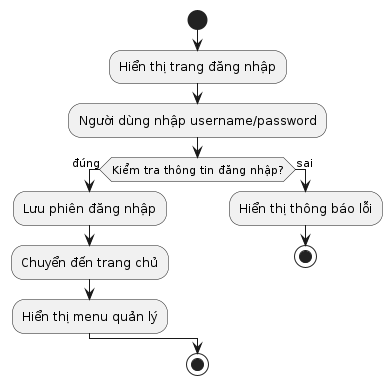
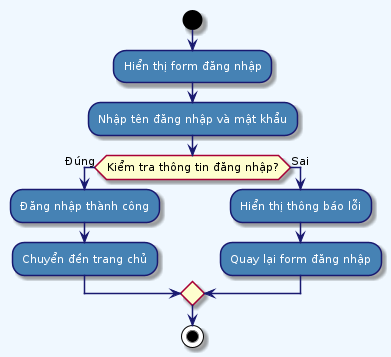
I think this is the last diagrams fix XD

diff --git a/README.md b/README.md
@@ -37,36 +37,40 @@
 
 ---
 
-## 📊 UML Diagrams
+## 📊 Diagrams
 
 ### 1. 🏗 Class Diagram
-Mô tả cấu trúc lớp và mối quan hệ giữa các đối tượng trong hệ thống.
+Mô tả cấu trúc lớp và mối quan hệ giữa các đối tượng trong hệ thống quản lý cửa hàng.
 
-![Class Diagram](diagrams/class-diagram.png)
+![Class Diagram](diagrams/ClassDiagram.png)
 
-### 2. 🎯 Use Case Diagram  
-Mô tả các chức năng chính và tương tác giữa người dùng với hệ thống.
+### 2. 🔄 Activity Diagrams
+Mô tả các luồng xử lý nghiệp vụ chính trong hệ thống.
 
-![Use Case Diagram](diagrams/use-case-diagram.png)
+#### Quản Lý Hàng Hóa
+Quy trình thêm, sửa, xóa hàng hóa (đã loại bỏ chức năng tìm kiếm).
 
-### 3. 🔄 Activity Diagrams
-Mô tả luồng xử lý nghiệp vụ nhập hàng và bán hàng.
+![Goods Management Activity](diagrams/GoodsManagementActivity.png)
 
-#### Quy trình Nhập Hàng
-![Activity Diagram - Nhập Hàng](diagrams/activity-diagram-nhap-hang.png)
+#### Quy Trình Nhập Hàng
+Mô tả luồng nhập hàng và cập nhật tồn kho.
 
-#### Quy trình Bán Hàng  
-![Activity Diagram - Bán Hàng](diagrams/activity-diagram-ban-hang.png)
+![Import Activity](diagrams/ImportActivity.png)
 
-### 4. 📈 Sequence Diagram
-Mô tả tương tác giữa các đối tượng trong quy trình tính doanh thu.
+#### Quy Trình Bán Hàng
+Mô tả luồng bán hàng, kiểm tra tồn kho và xử lý thanh toán.
 
-![Sequence Diagram - Doanh Thu](diagrams/sequence-diagram-doanh-thu.png)
+![Sales Activity](diagrams/SalesActivity.png)
 
-### 5. 🚀 Deployment Diagram
-Mô tả kiến trúc triển khai hệ thống.
+#### Báo Cáo Doanh Thu
+Quy trình tính toán và hiển thị báo cáo doanh thu, lợi nhuận.
 
-![Deployment Diagram](diagrams/deployment-diagram.png)
+![Revenue Report Activity](diagrams/RevenueReportActivity.png)
+
+#### Đăng Nhập Hệ Thống
+Quy trình xác thực người dùng trước khi truy cập hệ thống.
+
+![Login Activity](diagrams/LoginActivity.png)
 
 ---
 
